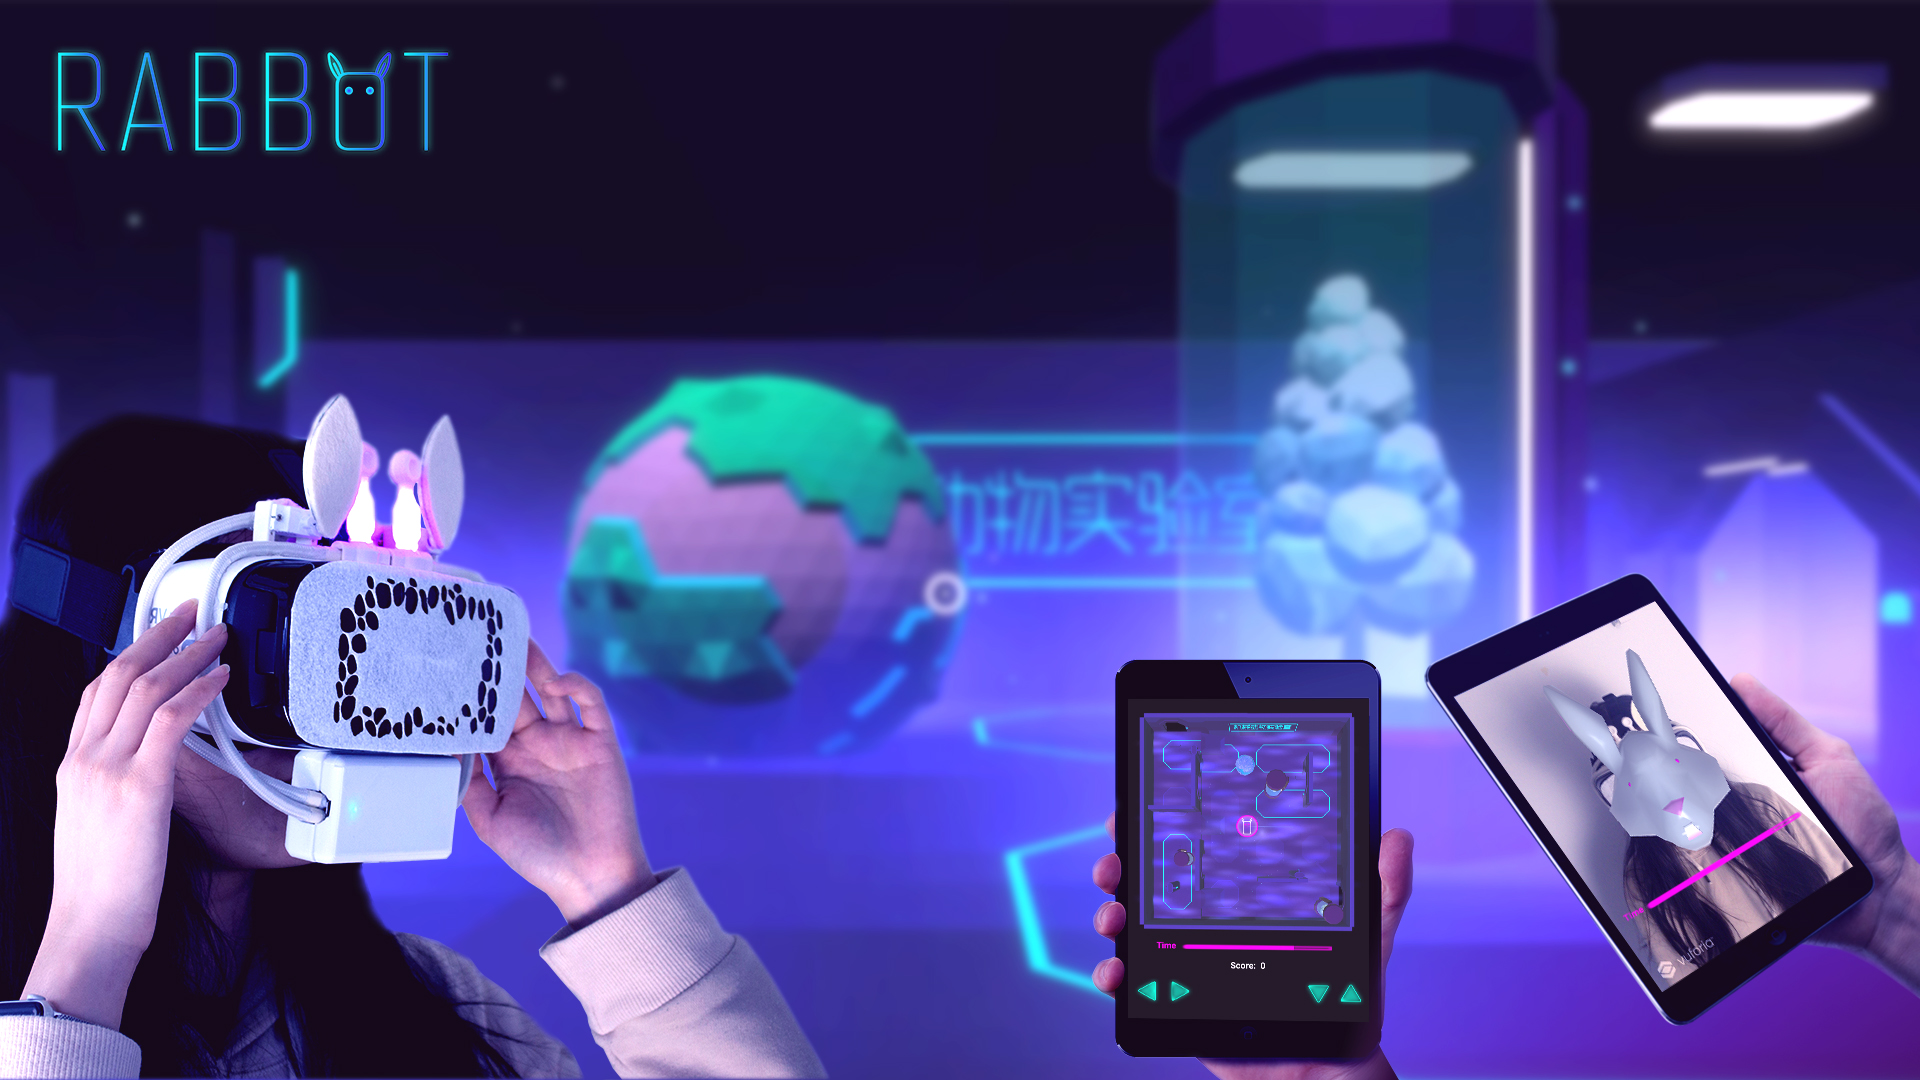
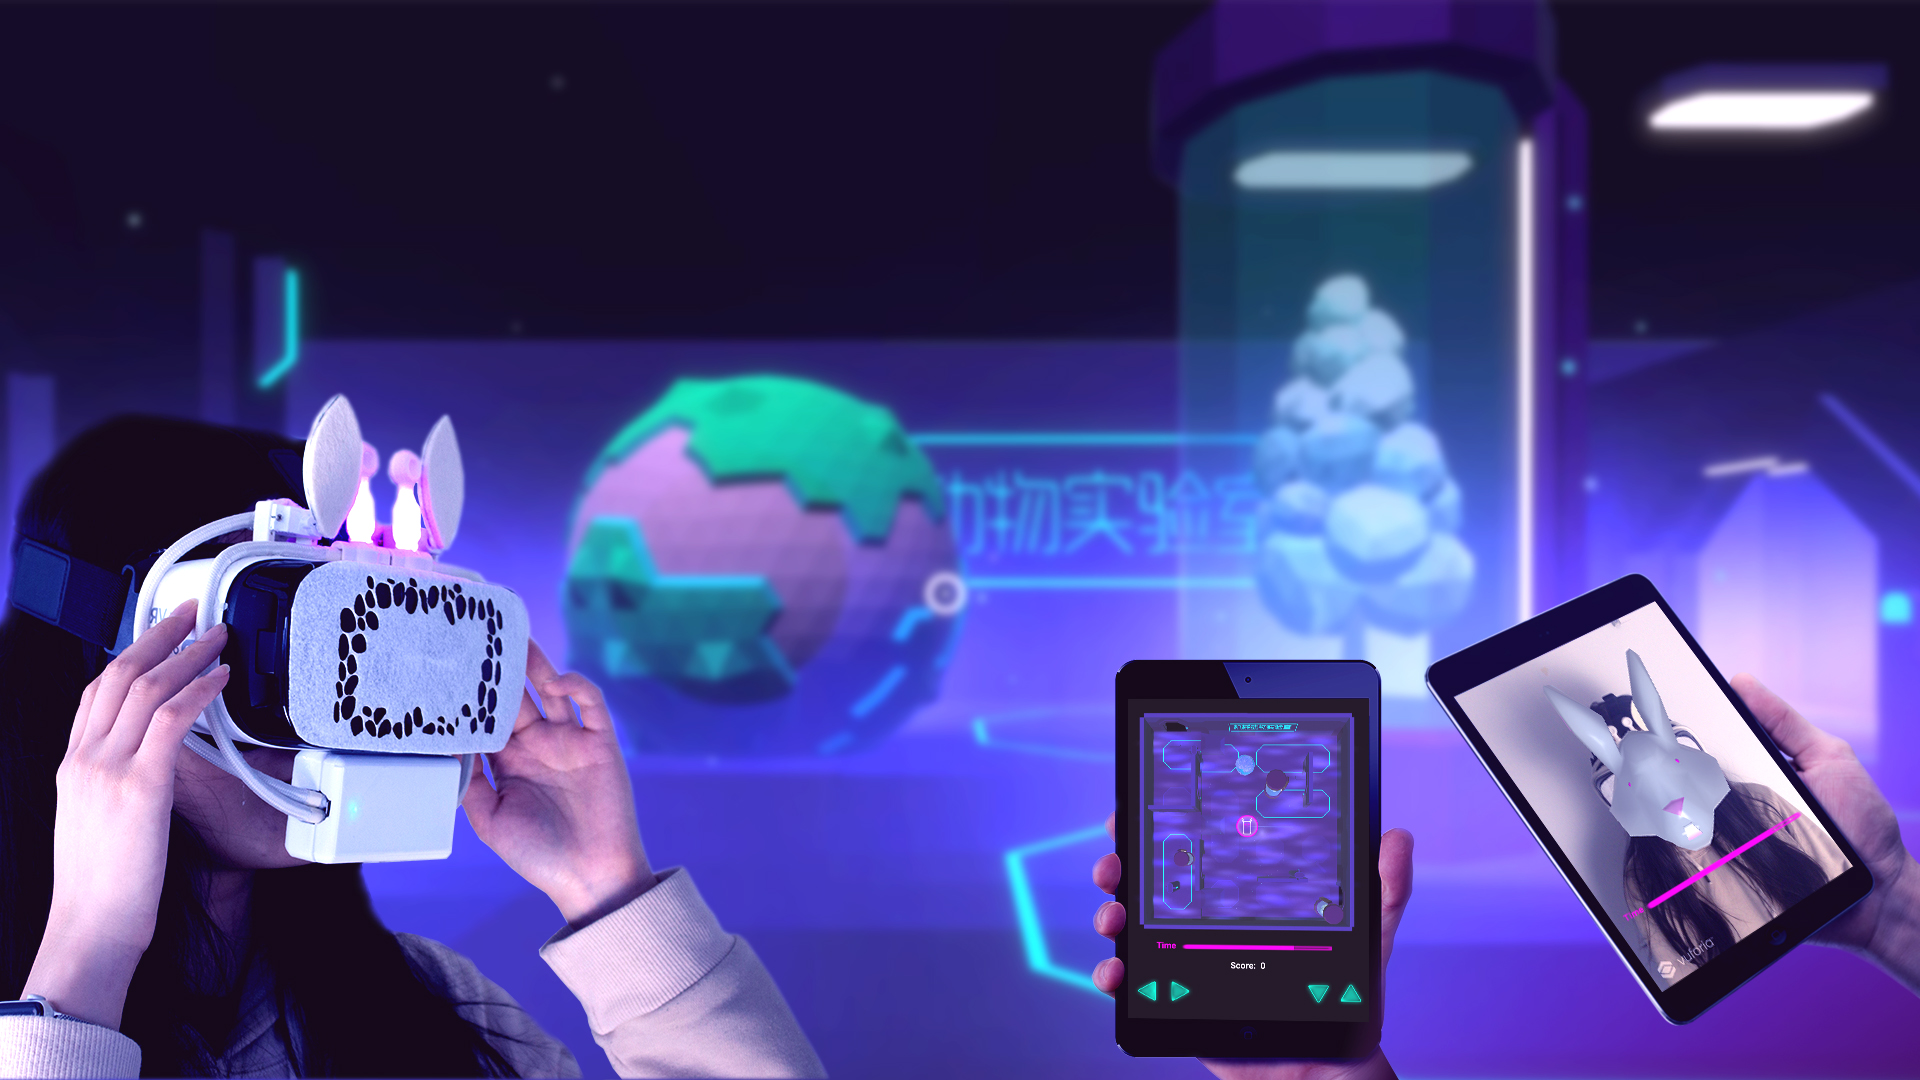
Added project title

Changed region(s): [[0.0312, 0.0306, 0.25, 0.1528]]

diff --git a/src/components/projectInfo.js b/src/components/projectInfo.js
@@ -11,21 +11,23 @@ class ProjectInfo extends React.Component {
         variants={text}
         className="row row-fullwidth project-info align-items-center pb-4"
       >
-        <div className="col-3 ">
-          <h4 className="text-center text-white">Year</h4>
-          <p className="text-center text-white">{this.props.year}</p>
-        </div>
-        <div className="col-3">
-          <h4 className="text-center text-white">Type</h4>
-          <p className="text-center text-white">{this.props.type}</p>
-        </div>
-        <div className="col-3">
-          <h4 className="text-center text-white">Tools</h4>
-          <p className="text-center text-white">{this.props.tools}</p>
-        </div>
-        <div className="col-3">
-          <h4 className="text-center text-white">Role</h4>
-          <p className="text-center text-white">{this.props.role}</p>
+        <div className="row">
+          <div className="col-3 ">
+            <h4 className="text-center text-white">Year</h4>
+            <p className="text-center text-white">{this.props.year}</p>
+          </div>
+          <div className="col-3">
+            <h4 className="text-center text-white">Type</h4>
+            <p className="text-center text-white">{this.props.type}</p>
+          </div>
+          <div className="col-3">
+            <h4 className="text-center text-white">Tools</h4>
+            <p className="text-center text-white">{this.props.tools}</p>
+          </div>
+          <div className="col-3">
+            <h4 className="text-center text-white">Role</h4>
+            <p className="text-center text-white">{this.props.role}</p>
+          </div>
         </div>
       </motion.div>
     );

diff --git a/src/components/rabbot.js b/src/components/rabbot.js
@@ -13,6 +13,7 @@ class Rabbot extends React.Component {
             alt="RABBOT project as a whole"
           />
           <div className="img-overlay"></div>
+          <h1 className="project-title text-center text-white">RABBOT</h1>
           <ProjectInfo
             year={data[0].date}
             type={data[0].type}
@@ -24,8 +25,10 @@ class Rabbot extends React.Component {
           <div className="container-fluid">
             <div className="row">
               <div id="projectnormal" className="col-md-4">
-                <h1>RABBOT</h1>
-                <p>A three-player AR/VR game</p>
+                <p>
+                  RABBOT is a three-player AR/VR game, which allows people
+                  inside of the VR to play with people outside of the VR.
+                </p>
                 <p>
                   Created for iPads, Andriod phones and Gear VR using Unity3D,
                   Node.js, Socket.IO, Particle API, OculusVR, Vuforia,

diff --git a/src/assets/style2.css b/src/assets/style2.css
@@ -65,7 +65,13 @@ ul {
   margin-left: 36%;
   text-align: center;
 }
-
+.project-title {
+  position: absolute;
+  top: 50%;
+  left: 50%;
+  transform: translate(-50%, -50%);
+  font-size: 8rem;
+}
 /***************Responsive video****************/
 .video-wrapper {
   position: relative;
